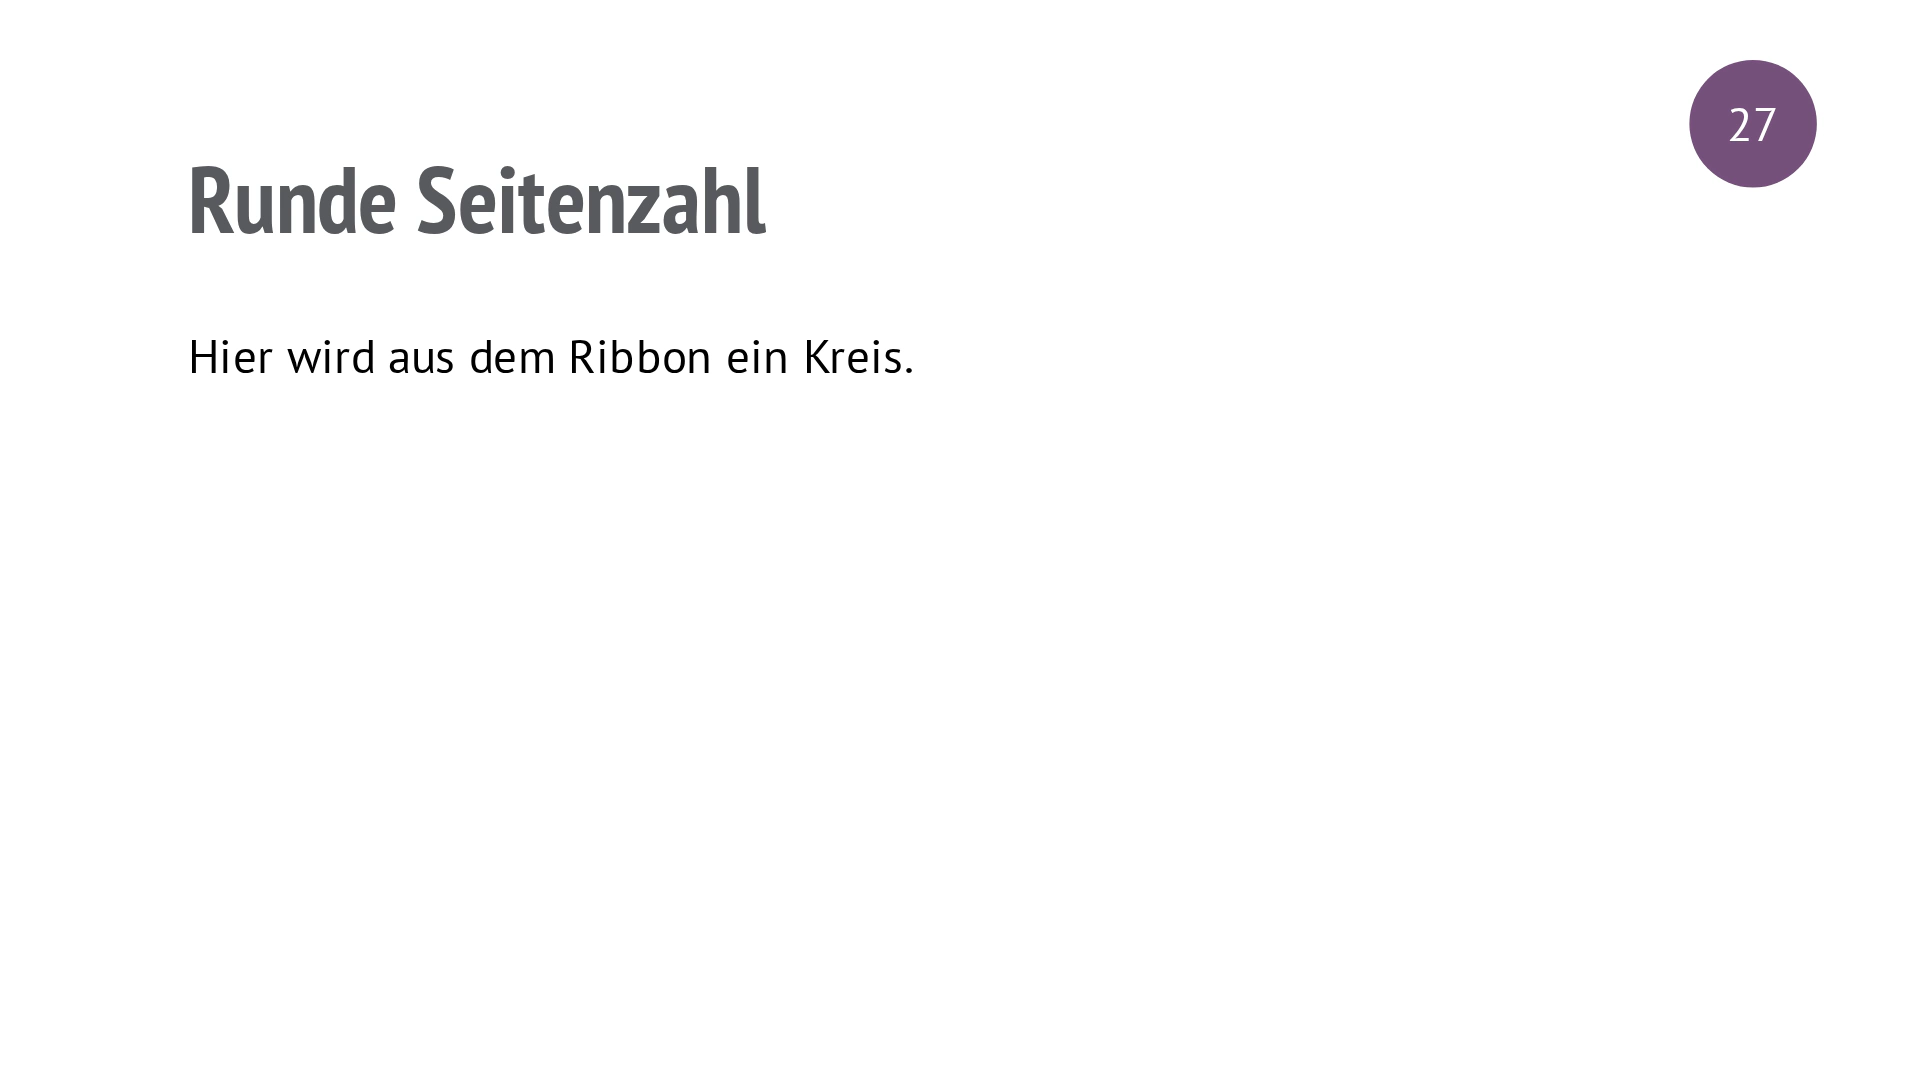
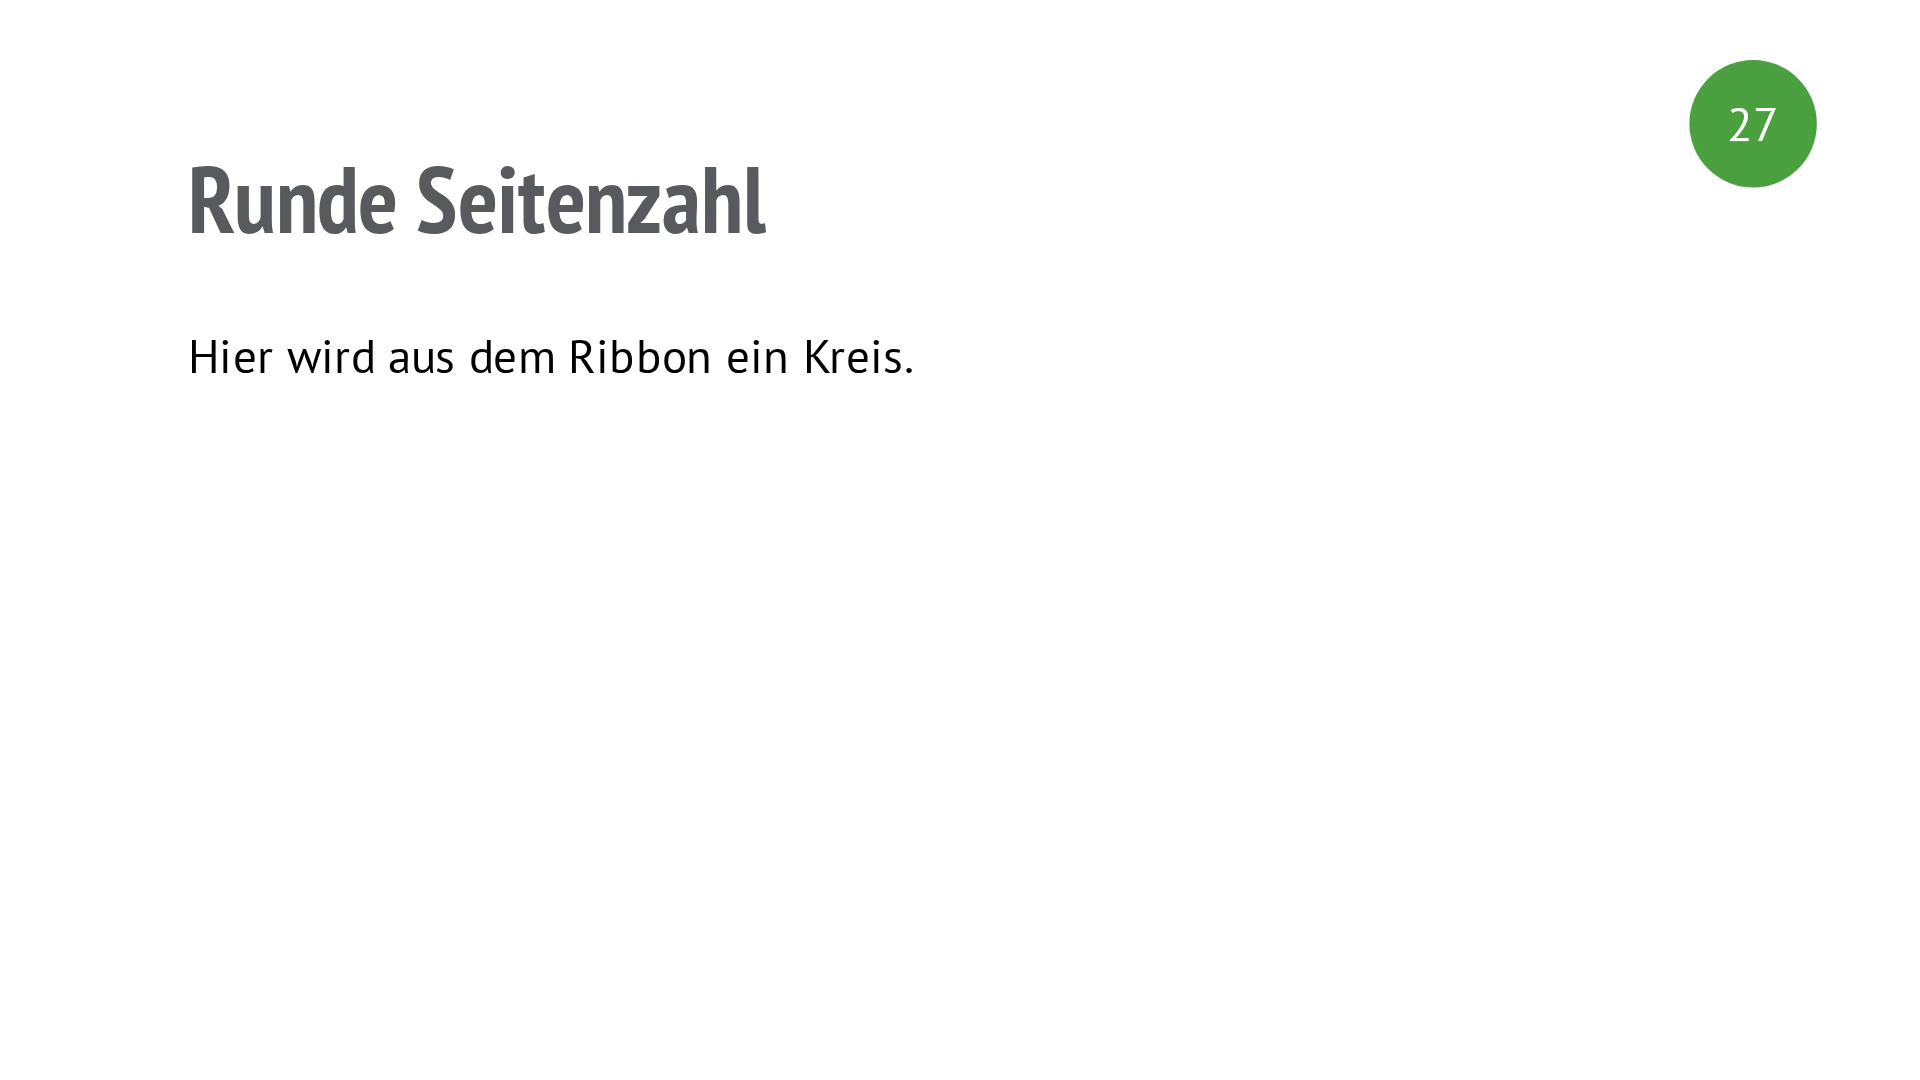
yay

Changed region(s): [[0.875, 0.0611, 0.9688, 0.1833]]

diff --git a/src/content/showerjs/shower.js/demo.html b/src/content/showerjs/shower.js/demo.html
@@ -396,7 +396,7 @@
 
                 clip-path: none;
                 border-radius: 50%;
-                background-color: #75507b;
+                background-color: #4aa03f;
 
                 line-height: 1;
             }
@@ -432,8 +432,8 @@
             <p>Die Nummer steht nur noch klein unten rechts.</p>
         </section>
 
-        <section id="startfolie-ohne-seitenzahl" class="slide nopagenumber">
-            <h2>Startfolie ohne Seitenzahl</h2>
+        <section id="keine-seitenzahl" class="slide nopagenumber">
+            <h2>Keine Seitenzahl</h2>
             <p>Auf dieser Folie soll kein Ribbon erscheinen.</p>
         </section>
 

diff --git a/src/content/showerjs/showerjs.md b/src/content/showerjs/showerjs.md
@@ -460,7 +460,7 @@ Dieser Abschnitt beginnt mit `<section class="slide">` und endet mit `</section>
 Alles, was zwischen diesen beiden Zeilen steht, gehört zu dieser einen Folie.
 
 <button class='shower-mini' type='button'>
-    <img src='screenshots/slide-001.webp'>
+    <img src='screenshots/meine-lieblingstiere.webp'>
 </button>
 
 ```html
@@ -522,7 +522,7 @@ Längere Texte schreibst du nicht direkt lose in die Folie, sondern in Absätze.
 Ein Absatz beginnt mit `<p>` und endet mit `</p>`.
 
 <button class='shower-mini' type='button'>
-    <img src='screenshots/slide-002.webp'>
+    <img src='screenshots/warum-html.webp'>
 </button>
 
 
@@ -581,7 +581,7 @@ Die zweite Überschrift hilft dem Publikum mehr, weil sie schon eine kleine Auss
 Wenn du mehrere Gedanken auf einer Folie hast, kannst du mehrere Absätze verwenden:
 
 <button class='shower-mini' type='button'>
-    <img src='screenshots/slide-003.webp'>
+    <img src='screenshots/erste-webseite.webp'>
 </button>
 
 
@@ -612,7 +612,7 @@ Manchmal möchtest du innerhalb eines Absatzes eine neue Zeile beginnen, ohne ei
 Dafür gibt es `<br>`.
 
 <button class='shower-mini' type='button'>
-    <img src='screenshots/slide-004.webp'>
+    <img src='screenshots/ueber-mich.webp'>
 </button>
 
 ```html
@@ -641,7 +641,7 @@ Wie du siehst, erhältst du durch <code>&lt;br&gt;</code> nur einen Zeilenumbruc
 Diese Folie ist technisch korrekt, aber als Präsentationsfolie wahrscheinlich zu voll:
 
 <button class='shower-mini' type='button'>
-    <img src='screenshots/slide-005.webp'>
+    <img src='screenshots/geschichte-des-internets.webp'>
 </button>
 
 ```html
@@ -660,7 +660,7 @@ Diese Folie ist technisch korrekt, aber als Präsentationsfolie wahrscheinlich z
 Oft ist es besser, den Text zu kürzen oder auf mehrere Folien zu verteilen:
 
 <button class='shower-mini' type='button'>
-    <img src='screenshots/slide-006.webp'>
+    <img src='screenshots/internet-verbindet-computer.webp'>
 </button>
 
 ```html
@@ -702,7 +702,7 @@ In HTML gibt es zwei wichtige Arten von Listen:
 `li` steht für »list item«, also »Listenpunkt«.
 
 <button class='shower-mini' type='button'>
-    <img src='screenshots/slide-007.webp'>
+    <img src='screenshots/meine-projektidee.webp'>
 </button>
 
 ```html
@@ -735,7 +735,7 @@ Schreibe also nicht alle Punkte in ein einziges <code>&lt;li&gt;</code>, sondern
 Eine nummerierte Liste verwendest du, wenn die Reihenfolge wichtig ist:
 
 <button class='shower-mini' type='button'>
-    <img src='screenshots/slide-008.webp'>
+    <img src='screenshots/so-startest-du.webp'>
 </button>
 
 ```html
@@ -788,7 +788,7 @@ Eine Liste auf einer Folie sollte nicht zu lang sein.
 Diese Folie ist zu voll und stößt an den unteren Rand der Folie:
 
 <button class='shower-mini' type='button'>
-    <img src='screenshots/slide-009.webp'>
+    <img src='screenshots/vorteile-html-praesentationen-uebersicht.webp'>
 </button>
 
 ```html
@@ -811,7 +811,7 @@ Diese Folie ist zu voll und stößt an den unteren Rand der Folie:
 Oft ist es besser, nur die wichtigsten Punkte auf die Folie zu schreiben:
 
 <button class='shower-mini' type='button'>
-    <img src='screenshots/slide-010.webp'>
+    <img src='screenshots/vorteile-html-praesentationen-kurz.webp'>
 </button>
 
 ```html
@@ -876,7 +876,7 @@ Dafür gibt es in HTML kleine Tags, die mitten im Text stehen können.
 Solche Tags nennt man **Inline-Tags**, weil sie in einer Zeile im Text mitlaufen.
 
 <button class='shower-mini' type='button'>
-    <img src='screenshots/slide-011.webp'>
+    <img src='screenshots/wichtig-html-css.webp'>
 </button>
 
 ```html
@@ -902,7 +902,7 @@ Die wichtigsten Inline-Tags sind:
 Mit `<strong>` markierst du Wörter, die besonders wichtig sind:
 
 <button class='shower-mini' type='button'>
-    <img src='screenshots/slide-012.webp'>
+    <img src='screenshots/speichern-und-einblendungen.webp'>
 </button>
 
 ```html
@@ -969,7 +969,7 @@ Für manche Themen brauchst du hochgestellte oder tiefgestellte Zeichen.
 Dafür gibt es `<sup>` und `<sub>`.
 
 <button class='shower-mini' type='button'>
-    <img src='screenshots/slide-013.webp'>
+    <img src='screenshots/formeln-im-text.webp'>
 </button>
 
 ```html
@@ -1023,7 +1023,7 @@ Es gibt zwei typische Arten von Formeln:
 - Eine **abgesetzte Formel** steht groß in einer eigenen Zeile.
 
 <button class='shower-mini' type='button'>
-    <img src='screenshots/slide-014.webp'>
+    <img src='screenshots/formeln-mit-katex.webp'>
 </button>
 
 ```html
@@ -1073,7 +1073,7 @@ H_2O             tiefgestellte 2
 Zum Beispiel:
 
 <button class='shower-mini' type='button'>
-    <img src='screenshots/slide-015.webp'>
+    <img src='screenshots/weitere-formeln.webp'>
 </button>
 
 ```html
@@ -1258,7 +1258,7 @@ Angenommen, dein Bild heißt `fuji.jpg` und liegt im Ordner `pictures`.
 Dann fügst du es so ein:
 
 <button class='shower-mini' type='button'>
-    <img src='screenshots/slide-016.webp'>
+    <img src='screenshots/bild-zu-gross.webp'>
 </button>
 
 ```html
@@ -1612,16 +1612,9 @@ In der Standardvorlage von shower.js erscheint rechts oben automatisch ein rotes
 Du musst dafür normalerweise **nichts** in deine Folie schreiben.
 Die Vorlage erzeugt dieses Ribbon selbst mit Hilfe dieser CSS-Regel:
 
-<div class='shower-mini'>
-<div class='shower-mini-slide' data-page='12'>
-<div class='mini-title'>Ausflug nach Berlin</div>
-<ul>
-<li>🏛️ Reichstag besuchen</li>
-<li>🚲 Mit dem Rad durch die Stadt</li>
-<li>🍟 Currywurst probieren</li>
-</ul>
-</div>
-</div>
+<button class='shower-mini' type='button'>
+    <img src='screenshots/ausflug-nach-berlin.webp'>
+</button>
 
 ```css
 .slide::after {
@@ -1653,15 +1646,12 @@ So kann die Vorlage Farben und Größen an einer zentralen Stelle verwalten.
 
 ##### Farbe des Standard-Ribbons ändern
 
-<div class='shower-mini'>
-<div class='shower-mini-slide mini-blue-ribbon' data-page='13'>
-<div class='mini-title'>Blaues Ribbon</div>
-<p>Die Form bleibt gleich, aber die Farbe ändert sich.</p>
-</div>
-</div>
-
 Wenn du nur die Farbe ändern möchtest, kannst du das vorhandene Ribbon behalten und nur die Hintergrundfarbe überschreiben.
 Schreibe diese Regel in `styles.css` unter den Kommentar `Eigene CSS-Regeln`:
+
+<button class='shower-mini' type='button'>
+    <img src='screenshots/blaues-ribbon.webp'>
+</button>
 
 ```css
 .slide::after {
@@ -1681,16 +1671,13 @@ Du kannst auch die vorhandene Shower-Farbvariable verwenden:
 
 ##### Eine runde Seitenzahl verwenden
 
-<div class='shower-mini'>
-<div class='shower-mini-slide mini-round-page' data-page='14'>
-<div class='mini-title'>Runde Seitenzahl</div>
-<p>Hier wird aus dem Ribbon ein Kreis.</p>
-</div>
-</div>
-
 Das Ribbon muss nicht wie ein Lesezeichen aussehen.
 Du kannst daraus auch einen Kreis machen.
 Auch diese Regel gehört in `styles.css`:
+
+<button class='shower-mini' type='button'>
+    <img src='screenshots/runde-seitenzahl.webp'>
+</button>
 
 ```css
 .slide::after {
@@ -1707,7 +1694,7 @@ Auch diese Regel gehört in `styles.css`:
 
     clip-path: none;
     border-radius: 50%;
-    background-color: #75507b;
+    background-color: #4aa03f;
 
     line-height: 1;
 }
@@ -1723,15 +1710,12 @@ Wichtig sind hier vor allem drei Dinge:
 
 ##### Nur eine kleine Zahl unten rechts anzeigen
 
-<div class='shower-mini'>
-<div class='shower-mini-slide mini-plain-page' data-page='15'>
-<div class='mini-title'>Unauffällige Seitenzahl</div>
-<p>Die Nummer steht nur noch klein unten rechts.</p>
-</div>
-</div>
-
 Manchmal soll die Seitenzahl sehr unauffällig sein.
 Dann kannst du Hintergrund und Form komplett entfernen:
+
+<button class='shower-mini' type='button'>
+    <img src='screenshots/unauffaellige-seitenzahl.webp'>
+</button>
 
 ```css
 .slide::after {
@@ -1766,6 +1750,10 @@ In der Starter-Vorlage gibt es dafür schon eine CSS-Regel in `styles.css`:
 ```
 
 Du musst also nur der Folie in `index.html` die zusätzliche Klasse `nopagenumber` geben:
+
+<button class='shower-mini' type='button'>
+    <img src='screenshots/keine-seitenzahl.webp'>
+</button>
 
 ```html
 <section class="slide nopagenumber">